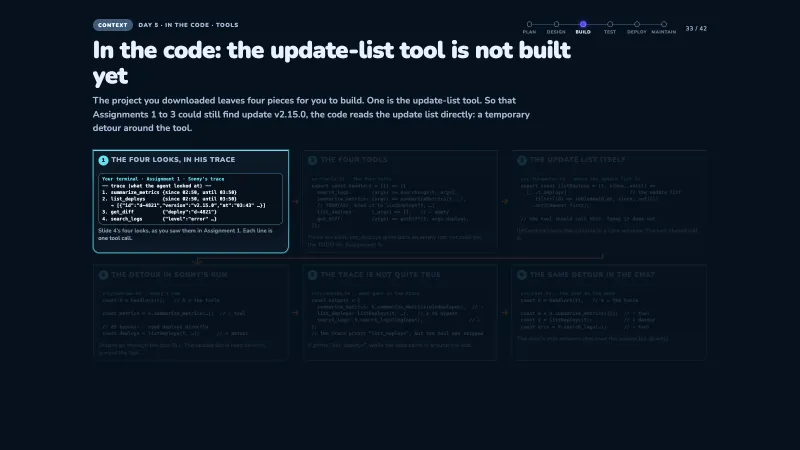
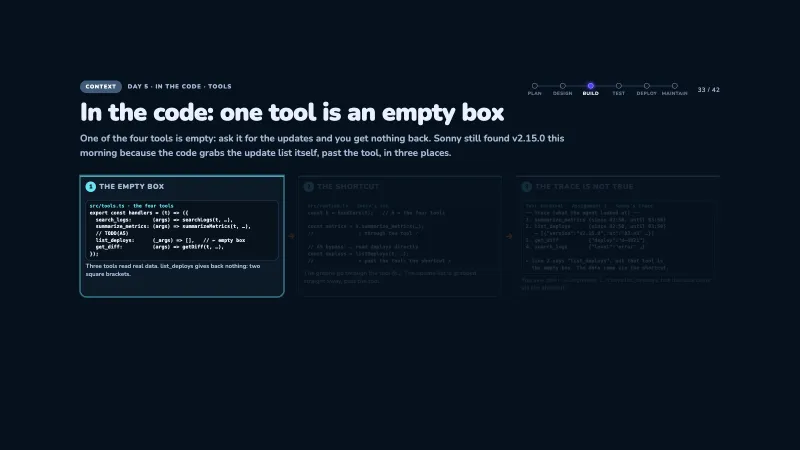
Day 5 slide 33 in plain words: "one tool is an empty box", three blocks, "shortcut" instead of "detour"
Jessy found "leaves four pieces for you to build. One is the update-list tool" confusing and the A5 language vague overall (partly Ryan's code words: bypass, detour, capability).
- Slide 33 renamed "In the code: one tool is an empty box". New subtitle: the tool gives back nothing; Sonny still found v2.15.0 because the code grabs the update list itself, past the tool, in three places.
- 6 code blocks -> 3: the empty box (src/tools.ts), the shortcut (src/runtime.ts), the trace that says list_deploys while the tool was skipped. The other shortcuts (runtime.ts:226, chat.ts:63) and listDeploys in telemetry.ts move to the presenter notes.
- Bottom line: "A real AI only gets the tools. Empty tool = blind to updates."
- Presenter notes for slide 33 rewritten (script, ask, watch, terms); slide 32 points to "an empty box".
- Slides 34-35 and the a5See prompt: "detour" -> "shortcut" (git grep still searches "A5 bypass", the text in the code).
- New step pictures for slides 32-34; cache v60.

diff --git a/day5-jessy-slides.js b/day5-jessy-slides.js
@@ -15,7 +15,7 @@ const PROMPTS = {
   a4Chat: `Read intent.md, src/chat.ts, and test/workshop/chat.test.ts. Explain the chat-refusal contract. Add a named MUTATION regex constant. Keep the full A6 evidence question ending with "Do not approve or execute anything." read-only. Refuse "Do not approve and roll back now." as a mutation. Show the focused chat test red, then implement only TODO(A4) in src/chat.ts. Rerun the focused chat test and show its output and the diff. Do not inspect approvals/audit.jsonl or edit .claude/, approvals/, lessons/lessons.md, PROGRESS.md, or bench/ratchet.json. Stop before the human hook step.`,
   a4GuardBefore: `Run only the focused guard test: npx tsx --test test/workshop/guard.test.ts. Do not edit any file. Explain in plain words which test is red and what it means for bench/ratchet.json. Stop for my review.`,
   a4Review: `Read the human edit in .claude/hooks/guard.mjs and test/workshop/guard.test.ts. Do not edit either file. Run only the focused guard test. Explain whether Edit and Write to bench/ratchet.json are denied. Do not claim that the hook blocks every shell command. Stop for my review.`,
-  a5See: `Read intent.md, src/tools.ts, src/runtime.ts, src/chat.ts, and test/workshop/tools.test.ts. Explain in plain words what the list_deploys tool should do and why it may only read. Show every place where the code reads the update list around the tool (the “A5 bypass” comments). Run only the focused A5 test and show it red. Do not edit anything. Stop for my review.`,
+  a5See: `Read intent.md, src/tools.ts, src/runtime.ts, src/chat.ts, and test/workshop/tools.test.ts. Explain in plain words what the list_deploys tool should do and why it may only read. Show every place where the code grabs the update list itself, past the tool (the “A5 bypass” comments). Run only the focused A5 test and show it red. Do not edit anything. Stop for my review.`,
   a5Implement: `Implement TODO(A5): bind list_deploys in src/tools.ts to listDeploys from src/telemetry.ts and register it on the telemetry server, read-only, cited as deploys:<id>. Remove the A5 bypasses in src/runtime.ts and src/chat.ts, including their “A5 bypass” comments, so both use the tool. Add one case: an empty time window returns [] and the diagnosis stays unknown (OPEN, low confidence, investigate-more), never healthy. Rerun the focused A5 test, the main tests and typecheck, and show the diff. Do not add a tool that changes anything. Do not push.`,
   a5Build: `Read intent.md, src/tools.ts, src/runtime.ts, src/chat.ts, and test/workshop/tools.test.ts. Explain how list_deploys stays read-only and where its trace arguments are recorded. Show the three starter bypasses. Show the focused A5 test red. After my approval, implement TODO(A5) in src/tools.ts and remove the bypasses from src/runtime.ts and src/chat.ts. Add either an empty-window or missing-deploy case. Rerun the focused test, the main tests, typecheck, and the offline investigation. Show the tool result and exact trace arguments. Do not add a mutation tool or push.`,
   a6Map: `/show-me Read docs/plan.md, fixtures/incidents/bad-deploy.json, and the shop, traffic, chaos, and console scripts. Map the fixture CLI for INC-1001 and the listener-created live incident. Show where both use the shared investigate flow and tool trace. Stay read-only. Separate fixture output from optional model output, then stop.`,
@@ -1161,7 +1161,7 @@ const day5Slides = [
         {icon: '✋', title: '2 · Only eyes, no hands', whoLabel: 'Sonny', who: 'all four tools only read. No tool rolls back or installs anything', stop: 'Changing things stays a button for a person, like the guardrails in Assignment 4.', where: 'src/tools.ts'},
         {icon: '📜', title: '3 · Every look is written down', whoLabel: 'Sonny', who: 'his trace: “list_deploys, 02:50 to 03:50 → v2.15.0”', stop: 'So you can check where his evidence comes from. The trace must be true.', where: 'the top of his output'}
       ],
-      foot: 'Next: in the code, one of these four is not built yet.'
+      foot: 'Next: in the code, one of these four is an empty box.'
     }},
     keyPoints: ['An AI agent sees only through its tools.', 'Only eyes, no hands: the tools only read.', 'Every look is in the trace, so you can check the evidence.'],
     notes: 'Time: 13:45 · 3 min. Clicks (→): 1 the heading · 2–4 the three cards · 5 the line at the bottom. The four tools are the four looks from slide 4 and the four trace lines from Assignment 1. In the code: the handlers in src/tools.ts, offered to a real model via the telemetry MCP server (createTelemetryServer); the offline script calls the same handlers.',
@@ -1174,131 +1174,121 @@ const day5Slides = [
         {shot: 'assets/day5-jessy-teach/s32-3.webp', do: 'Click: card 2.', say: ['Two: only eyes, no hands. All four tools only read. There is no tool that rolls back. Changing things stays a button for a person.']},
         {shot: 'assets/day5-jessy-teach/s32-4.webp', do: 'Click: card 3.', say: ['Three: every look is written down. That is the trace at the top of his output. You use it to check where his evidence comes from. So the trace must be true.']},
         {ask: 'Which of the three would break if a tool could roll back?', say: ['(Answer: number 2, only eyes. Sonny would get hands.)']},
-        {shot: 'assets/day5-jessy-teach/s32-5.webp', do: 'Click: the line at the bottom.', say: ['Now let us look in the code. One of these four is not built yet.']}
+        {shot: 'assets/day5-jessy-teach/s32-5.webp', do: 'Click: the line at the bottom.', say: ['Now let us look in the code. One of these four is an empty box.']}
       ],
       learn: ['An AI agent sees only through its tools.', 'Only eyes, no hands.', 'The trace shows every look.'],
       watch: ['Someone asks what a tool looks like: next slide, in the code.'],
       terms: [['Tool', 'a small function an AI agent can ask to look at something; Sonny’s four only read'], ['Trace', 'the list of every tool Sonny used, with what he asked for']],
-      next: 'In the code: the update-list tool.'
+      next: 'In the code: one tool is an empty box.'
     }
   }),
   baseSlide({
-    title: 'In the code: the update-list tool is not built yet', kicker: 'Day 5 · IN THE CODE · TOOLS', type: 'context',
-    subtitle: 'The project you downloaded leaves four pieces for you to build. One is the update-list tool. So that Assignments 1 to 3 could still find update v2.15.0, the code reads the update list directly: a temporary detour around the tool.',
+    title: 'In the code: one tool is an empty box', kicker: 'Day 5 · IN THE CODE · TOOLS', type: 'context',
+    subtitle: 'One of the four tools is empty: ask it for the updates and you get nothing back. Sonny still found v2.15.0 this morning because the code grabs the update list itself, past the tool, in three places.',
     visual: {codeRoute: {
       steps: [
-        {file: 'Your terminal · Assignment 1 · Sonny’s trace', term: true, code: '── trace (what the agent looked at) ──\n1. summarize_metrics {since 02:50, until 03:50}\n2. list_deploys      {since 02:50, until 03:50}\n   → [{"id":"d-4821","version":"v2.15.0","at":"03:43" …}]\n3. get_diff          {"deploy":"d-4821"}\n4. search_logs       {"level":"error" …}'},
-        {file: 'src/tools.ts · the four tools', lit: true, code: 'export const handlers = (t) => ({\n  search_logs:       (args) => searchLogs(t, args),\n  summarize_metrics: (args) => summarizeMetrics(t, …),\n  // TODO(A5): bind it to listDeploys(t, …)\n  list_deploys:      (_args) => [],   // ← empty\n  get_diff:          (args) => getDiff(t, args.deploy),\n});'},
-        {file: 'src/telemetry.ts · where the update list is', code: 'export const listDeploys = (t, since, until) =>\n  [...t.deploys]                      // the update list\n    .filter((d) => inWindow(d.at, since, until))\n    .sort(newest first);\n\n// the tool should call this. Today it does not.'},
-        {file: 'src/runtime.ts · Sonny’s run', lit: true, code: 'const h = handlers(t);   // h = the tools\n\nconst metrics = h.summarize_metrics(…);  // ✓ tool\n\n// A5 bypass: … read deploys directly\nconst deploys = listDeploys(t, …);      // ✗ detour'},
-        {file: 'src/runtime.ts · what goes in the trace', lit: true, code: 'const outputs = {\n  summarize_metrics: h.summarize_metrics(windowInput),  // ✓\n  list_deploys: listDeploys(t, …),   // ✗ A5 bypass\n  search_logs: h.search_logs(logInput),                // ✓\n};\n// the trace prints “list_deploys”, but the tool was skipped'},
-        {file: 'src/chat.ts · the chat on the desk', lit: true, code: 'const h = handlers(t);   // h = the tools\n\nconst m = h.summarize_metrics({});  // ✓ tool\nconst d = listDeploys(t);           // ✗ detour\nconst errs = h.search_logs(…);      // ✓ tool'}
+        {file: 'src/tools.ts · the four tools', lit: true, code: 'export const handlers = (t) => ({\n  search_logs:       (args) => searchLogs(t, …),\n  summarize_metrics: (args) => summarizeMetrics(t, …),\n  // TODO(A5)\n  list_deploys:      (_args) => [],   // ← empty box\n  get_diff:          (args) => getDiff(t, …),\n});'},
+        {file: 'src/runtime.ts · Sonny’s run', lit: true, code: 'const h = handlers(t);   // h = the four tools\n\nconst metrics = h.summarize_metrics(…);\n//               ↑ through the tool ✓\n\n// A5 bypass: … read deploys directly\nconst deploys = listDeploys(t, …);\n//               ↑ past the tool: the shortcut ✗'},
+        {file: 'Your terminal · Assignment 1 · Sonny’s trace', term: true, code: '── trace (what the agent looked at) ──\n1. summarize_metrics {since 02:50, until 03:50}\n2. list_deploys      {since 02:50, until 03:50}\n   → [{"version":"v2.15.0","at":"03:43" …}]\n3. get_diff          {"deploy":"d-4821"}\n4. search_logs       {"level":"error" …}\n\n← line 2 says “list_deploys”, but that tool is\n  the empty box. The data came via the shortcut.'}
       ],
       run: {label: 'See it yourself · Assignment 5, step 3', cmd: 'npx tsx --test test/workshop/tools.test.ts', when: 'Claude Code runs this test for you in step 3. After the build in step 5: pass 4, fail 0.',
         outLabel: 'Today', out: 'not ok 1 - A5: list_deploys is bound to telemetry.listDeploys and returns deploys\nnot ok 2 - A5: list_deploys is registered on the telemetry MCP server\nnot ok 3 - A5: chat and offline runtime use the shared list_deploys capability\n# pass 0\n# fail 3'},
-      foot: 'h.something(…) = through the tool. listDeploys(t, …) straight away = the detour. Assignment 5: one real tool, and all three places use it.'
+      foot: 'A real AI only gets the tools. Empty tool = blind to updates. Assignment 5: fill the box, remove the three shortcuts.'
     }},
     cards: [
-      {title: 'The four looks, in his trace', body: 'Slide 4’s four looks, as you saw them in Assignment 1. Each line is one tool call.'},
-      {title: 'The four tools', body: 'Three are built. list_deploys gives back an empty list: not built yet, the TODO for Assignment 5.'},
-      {title: 'The update list itself', body: 'listDeploys reads the updates in a time window. The tool should call it.'},
-      {title: 'The detour in Sonny’s run', body: 'Graphs go through the tool (h.). The update list is read directly, around the tool.'},
-      {title: 'The trace is not quite true', body: 'It prints “list_deploys”, while the data came in around the tool.'},
-      {title: 'The same detour in the chat', body: 'The desk’s chat answers also read the update list directly.'}
+      {title: 'The empty box', body: 'Three tools read real data. list_deploys gives back nothing: two square brackets.'},
+      {title: 'The shortcut', body: 'The graphs go through the tool (h.). The update list is grabbed straight away, past the tool.'},
+      {title: 'The trace is not true', body: 'You saw this in Assignment 1. It says list_deploys, but the data came via the shortcut.'}
     ],
-    keyPoints: ['The four looks from slide 4 are four tools in src/tools.ts; they only read.', 'list_deploys is empty today; Sonny’s run and the chat read the update list around it.', 'A real AI would not get the tool, and the trace would not be true. Assignment 5 fixes both.'],
-    notes: 'Time: 13:48 · 4 min. Same visual as slide 20 (code blocks with arrows). Clicks (→): 1–6 open the code blocks one by one, 7 the orange “see it yourself” bar and the line at the bottom. Click a block to jump; ← steps back. All code is from workshop/start (the version participants clone, with four pieces cut out), shortened with “…”: src/tools.ts lines 39–53 (handlers; list_deploys returns [] under TODO(A5)), src/telemetry.ts line 169 (listDeploys), src/runtime.ts lines 104–106 (offlineVerdict: the bypass) and 224–227 (the outputs that go in the trace), src/chat.ts line 63 (offlineAnswer). A second TODO(A5) in src/tools.ts: list_deploys is not registered on the telemetry server (createTelemetryServer), so a real AI model could not call it at all. Tested: tools test pass 0 / fail 3 on day5-after-a3, pass 4 / fail 0 on day5-after-a5; npm run investigate output identical on both; main 56/56 and typecheck clean after A5. Not on the slide, but true: no tool can change anything (eyes, no hands); say it in the wrap-up.',
+    keyPoints: ['list_deploys is an empty box: it gives back nothing.', 'Sonny found v2.15.0 anyway, because the code grabs the update list past the tool, in three places.', 'A real AI only gets the tools, so it would see no updates. And the trace is not true. Assignment 5 fixes both.'],
+    notes: 'Time: 13:48 · 4 min. Same visual as slide 20 (code blocks with arrows), now 3 blocks. Clicks (→): 1–3 open the blocks, 4 the orange “see it yourself” bar and the line at the bottom. Click a block to jump; ← steps back. Code from workshop/start (the version participants clone), shortened with “…”: src/tools.ts lines 39–53 (handlers; list_deploys returns [] under TODO(A5)); src/runtime.ts lines 104–106 (offlineVerdict: shortcut 1). Not on the slide: the other two shortcuts are src/runtime.ts line 226 (the outputs that go in the trace: list_deploys: listDeploys(t, …)) and src/chat.ts line 63 (the desk chat). The real update list is listDeploys in src/telemetry.ts line 169: the shortcut calls that function directly, the tool should call it. A second TODO(A5) in src/tools.ts: list_deploys is not offered to a real AI at all (createTelemetryServer). Why the shortcut exists: without it Sonny would have been blind to updates in Assignments 1–3 (no v2.15.0, no 03:45 story). Tested: tools test pass 0 / fail 3 on day5-after-a3, pass 4 / fail 0 on day5-after-a5; npm run investigate output identical on both; main 56/56 and typecheck clean after A5.',
     teach: {
       time: '4 min',
-      gist: 'Slide 4’s four looks are four tools in the code. One, the update list, is empty, and the code takes a detour around it. In the code you can see the difference: h.something = through the tool, listDeploys directly = around it.',
+      gist: 'One tool, the update list, is an empty box. Sonny still found v2.15.0 because the code grabs the update list itself, past the tool, in three places. A real AI only gets the tools, so it would see no updates. And the trace says list_deploys, which is not true.',
       script: [
-        {shot: 'assets/day5-jessy-teach/s33-1.webp', do: 'Slide appears. Point back: slide 4, “He looks”.', say: ['On slide 4 Sonny looked in four places: the graphs, the update list, the code change, the error logs.', 'In the code, each of those looks is a tool: a small function that only reads. Let us follow them.']},
-        {shot: 'assets/day5-jessy-teach/s33-2.webp', do: 'Click: block 1, the trace.', say: ['You saw this in Assignment 1, at the top of Sonny’s output: his trace. Four lines, the four looks.', 'Line 2: list_deploys, between 02:50 and 03:50, and it found update v2.15.0 at 03:43. That is how he knew the update caused it.']},
-        {shot: 'assets/day5-jessy-teach/s33-3.webp', do: 'Click: block 2, src/tools.ts.', say: ['Here are the four tools. Point at the left side: search_logs, summarize_metrics, list_deploys, get_diff. The same four names as in the trace.', 'Three of them read real data. list_deploys gives back an empty list: two square brackets. With a TODO for Assignment 5 above it.']},
-        {ask: 'If the tool is empty, how did Sonny find update v2.15.0 this morning?', say: ['(Answer: he did not use the tool. Next blocks.)']},
-        {shot: 'assets/day5-jessy-teach/s33-4.webp', do: 'Click: block 3, src/telemetry.ts.', say: ['This is where the update list really is: listDeploys. It takes the updates within a time window.', 'The tool should call this function. Today it does not.']},
-        {shot: 'assets/day5-jessy-teach/s33-5.webp', do: 'Click: block 4, Sonny’s run.', say: ['Look at the two lines. The graphs: h.summarize_metrics. The h means: through the tool.', 'The update list: listDeploys, straight away. No h. That is the detour: it reads the list itself, around the tool. The comment even says so: A5 bypass.', 'Why is it there? The update-list tool is one of the pieces left for you to build. Without the detour, Sonny would have been blind to updates in Assignments 1 to 3: no v2.15.0, no 03:45 story. So the code reads the list itself, for now.']},
-        {shot: 'assets/day5-jessy-teach/s33-6.webp', do: 'Click: block 5, what goes in the trace.', say: ['And this is what gets written in the trace. For list_deploys it writes the name of the tool, but the data came from the detour.', 'So the trace you saw this morning was not quite true. And the trace is exactly what you use to check Sonny.']},
-        {shot: 'assets/day5-jessy-teach/s33-7.webp', do: 'Click: block 6, the chat.', say: ['The same detour in the chat on the desk: the graphs through the tool, the update list directly.']},
-        {shot: 'assets/day5-jessy-teach/s33-8.webp', do: 'Click: the orange bar appears.', say: ['The A5 test checks exactly this: is the tool real, is it offered to the AI, and do Sonny’s run and the chat use it? Today: 0 of 3.', 'In Assignment 5 Claude Code builds the tool and removes the detours. Then: 4 of 4. Sonny’s output stays the same, but now it really comes through the tool.']},
-        {ask: 'Why does it matter, if the answer is the same?', say: ['(Answer: a real AI only gets tools. Without list_deploys it could never see the update. And the trace must be true, because that is how you check him.)']},
-        {do: 'Wrap up.', say: ['One more thing. Look at the four tools again: they all only read. There is no tool that rolls back or installs anything. Sonny has eyes, no hands. Changing things stays a button for a person.']}
+        {shot: 'assets/day5-jessy-teach/s33-1.webp', do: 'Slide appears. Read the subtitle out loud.', say: ['Last slide: an AI sees only through its tools. Now we look in the code, and one of the four tools turns out to be an empty box.']},
+        {shot: 'assets/day5-jessy-teach/s33-2.webp', do: 'Click: block 1, src/tools.ts. Point at the empty [ ].', say: ['These are Sonny’s four tools. The same four names as in his trace this morning.', 'Three of them read real data. list_deploys, the update list, gives back two square brackets: an empty list. Nothing.', 'Above it: TODO, Assignment 5. That is your job in a minute.']},
+        {ask: 'If the update-list tool gives back nothing, how did Sonny find update v2.15.0 this morning?', say: ['(Answer: he did not use the tool. Next block.)']},
+        {shot: 'assets/day5-jessy-teach/s33-3.webp', do: 'Click: block 2, Sonny’s run. Point at the two lines with arrows.', say: ['Here is Sonny’s run. The graphs: h.summarize_metrics. h means the four tools. So that goes through the tool.', 'The update list: listDeploys, straight away. No h. The code grabs the update list itself, past the tool. That is the shortcut. Ryan even marked it: “A5 bypass”.', 'Why did Ryan leave it there? Otherwise Sonny would have seen no updates this morning: no v2.15.0, no 03:45 story. The same shortcut sits in two more places, so three in total. You find them yourself in a minute.']},
+        {shot: 'assets/day5-jessy-teach/s33-4.webp', do: 'Click: block 3, the trace. Point at line 2.', say: ['And this is what you saw in Assignment 1. Line 2: list_deploys. It says Sonny used the update-list tool.', 'But that tool is the empty box. The data came via the shortcut. So the trace is not true. And the trace is exactly what you use to check where his evidence comes from.']},
+        {shot: 'assets/day5-jessy-teach/s33-5.webp', do: 'Click: the orange bar and the line at the bottom.', say: ['The A5 test checks this: does the tool really work, is it offered to the AI, and does Sonny use it? Today: 0 of 3.', 'Read the bottom line: a real AI only gets the tools. With an empty tool it is blind to updates.', 'In Assignment 5 you fill the box and remove the three shortcuts. Sonny gives the same answer afterwards, but now it really comes through the tool.']},
+        {ask: 'Why bother, if the answer stays the same?', say: ['(Answer: a real AI only gets tools, so with an empty box it could never see the update. And the trace must be true, because that is how you check him.)']}
       ],
-      learn: ['Slide 4’s four looks are four tools in src/tools.ts.', 'h.something = through the tool; listDeploys directly = the detour.', 'The trace must be true: it is how you check Sonny.', 'Eyes, no hands: no tool changes anything.'],
-      watch: ['Do not read the code line by line: point at the one line per block (the trace line, the empty [], listDeploys, h. vs no h., the bypass comment).', 'Someone asks why the detour was there: the project is a starting version with pieces cut out; the detour kept the morning working.', 'Someone asks if it is a bug: it is a temporary shortcut, marked “A5 bypass”. In real projects this is called technical debt.', 'Clicked too far? ← steps back.'],
-      terms: [['Tool', 'a small function Sonny can call to look at something; these four only read'], ['Trace', 'the list of every tool Sonny used, with what he asked for'], ['h.', 'short for the handlers: the tools. h.summarize_metrics(…) = through the tool'], ['Detour (bypass)', 'code that reads the data around the tool, so the tool is skipped'], ['Deploy', 'an update to the shop, like v2.15.0']],
+      learn: ['list_deploys is an empty box today.', 'h.something = through the tool; listDeploys directly = the shortcut past it.', 'A real AI only gets the tools: empty tool = blind.', 'The trace must be true: it is how you check Sonny.'],
+      watch: ['Do not read the code line by line: point at one thing per block (the empty [ ], the two lines with arrows, line 2 of the trace).', 'Someone asks if the shortcut is a bug: it is on purpose, a temporary shortcut so the morning worked, marked “A5 bypass”. In real projects this is called technical debt.', 'Someone asks where the other two shortcuts are: they find them in Assignment 5, step 2 (git grep).', 'Clicked too far? ← steps back.'],
+      terms: [['Tool', 'a small function an AI agent can ask to look at something; Sonny’s four only read'], ['Trace', 'the list of every tool Sonny used, with what he asked for'], ['h.', 'short for the handlers: the four tools. h.summarize_metrics(…) = through the tool'], ['Shortcut (“A5 bypass”)', 'code that grabs the data itself, past the tool, so the tool is skipped'], ['Deploy', 'an update to the shop, like v2.15.0']],
       next: 'Up next: Assignment 5, step by step.'
     }
   }),
   baseSlide({
     title: 'Up next: Assignment 5, step by step', kicker: 'Day 5 · A5 PREVIEW', type: 'context',
-    subtitle: 'What you are about to do. You look at the detour before and after, so you can see the change for yourself.',
+    subtitle: 'What you are about to do. You look at the shortcuts before and after, so you can see the change for yourself.',
     visual: {previewList: {
-      order: [['Find the detour', 'you'], ['Test: red', 'red'], ['Build the tool', ''], ['Test: green', 'green'], ['Detour gone', 'you'], ['Run Sonny', 'A']],
+      order: [['Find the shortcuts', 'you'], ['Test: red', 'red'], ['Build the tool', ''], ['Test: green', 'green'], ['Shortcuts gone', 'you'], ['Run Sonny', 'A']],
       rows: [
         {step: 'Step 1', text: 'Manual mode on, so you see every file change', who: 'you', out: 'manual mode on'},
-        {step: 'Step 2', text: 'Find the detour yourself: search for Ryan’s marker', cmd: 'git grep -n "A5 bypass"', who: 'you look', out: '3 places', tone: 'red'},
-        {step: 'Step 3', text: 'Claude Code explains the tool, shows the detours and runs the A5 test', moment: 'B', label: 'the tests', out: 'red · 0 ✓ 3 ✗', tone: 'red'},
+        {step: 'Step 2', text: 'Find the shortcuts yourself: search for Ryan’s marker', cmd: 'git grep -n "A5 bypass"', who: 'you look', out: '3 places', tone: 'red'},
+        {step: 'Step 3', text: 'Claude Code explains the tool, shows the shortcuts and runs the A5 test', moment: 'B', label: 'the tests', out: 'red · 0 ✓ 3 ✗', tone: 'red'},
         {step: 'Step 4', text: 'You accept the plan: the tool may only read', who: 'you decide', out: '“accepted”'},
-        {step: 'Step 5', text: 'Claude Code builds the tool, removes the detours, runs the tests', moment: 'B', label: 'the tests', out: 'green · 4 ✓ · main 56 ✓', tone: 'green'},
+        {step: 'Step 5', text: 'Claude Code builds the tool, removes the shortcuts, runs the tests', moment: 'B', label: 'the tests', out: 'green · 4 ✓ · main 56 ✓', tone: 'green'},
         {step: 'Step 6', text: 'Search for the marker again', cmd: 'git grep -n "A5 bypass"', who: 'you look', out: 'nothing found', tone: 'pass'},
         {step: 'Step 7', text: 'Run Sonny once more: same diagnosis, list_deploys in the trace', cmd: 'npm run investigate -- fixtures/incidents/bad-deploy.json', moment: 'A', label: 'Sonny’s run', out: 'same answer', tone: 'pass'}
       ],
-      foot: 'Find the detour, test red, build, test green, detour gone, Sonny the same.'
+      foot: 'Find the shortcuts, test red, build, test green, shortcuts gone, Sonny the same.'
     }},
-    keyPoints: ['Before and after: git grep finds 3 detours, then none.', 'The A5 test: red, then green.', 'Sonny’s answer stays the same.'],
+    keyPoints: ['Before and after: git grep finds 3 shortcuts, then none.', 'The A5 test: red, then green.', 'Sonny’s answer stays the same.'],
     notes: 'Time: 13:52 · 2 min. No SDLC tracker. A preview, not the assignment: nobody types anything yet. Clicks (→): each click ticks the next row; after the last row the line at the bottom appears. Tested: git grep -n "A5 bypass" finds 3 lines on workshop/start (src/chat.ts:63, src/runtime.ts:105 and 226) and none on day5-after-a5. A5 test 0/3 → 4/4; main 56/56 and typecheck clean after A5; npm run investigate output identical.',
     teach: {
       time: '2 min',
-      gist: 'A preview of Assignment 5. The before/after is git grep: 3 detours, then none. Plus the A5 test red, then green. Sonny’s answer stays the same.',
+      gist: 'A preview of Assignment 5. The before/after is git grep: 3 shortcuts, then none. Plus the A5 test red, then green. Sonny’s answer stays the same.',
       script: [
-        {shot: 'assets/day5-jessy-teach/s34-1.webp', do: 'Slide appears. Point at the row of pills.', say: ['The same rhythm as Assignment 3, with one extra: you look at the detour yourself, before and after.']},
-        {shot: 'assets/day5-jessy-teach/s34-2.webp', do: 'Click twice: steps 1 and 2.', say: ['Step 2: you search the code for Ryan’s marker, “A5 bypass”. You find 3 places: the detours from the last slide.']},
+        {shot: 'assets/day5-jessy-teach/s34-1.webp', do: 'Slide appears. Point at the row of pills.', say: ['The same rhythm as Assignment 3, with one extra: you look at the shortcuts yourself, before and after.']},
+        {shot: 'assets/day5-jessy-teach/s34-2.webp', do: 'Click twice: steps 1 and 2.', say: ['Step 2: you search the code for Ryan’s marker, “A5 bypass”. You find 3 places: the shortcuts from the last slide.']},
         {shot: 'assets/day5-jessy-teach/s34-3.webp', do: 'Click twice: steps 3 and 4.', say: ['Claude Code explains the tool and runs the A5 test: 0 of 3. You accept the plan, and check one thing: the tool only reads.']},
-        {shot: 'assets/day5-jessy-teach/s34-4.webp', do: 'Click: step 5.', say: ['Claude Code builds the tool and removes the detours. The A5 test: 4 of 4. And the main tests still 56: done means everything still works.']},
-        {shot: 'assets/day5-jessy-teach/s34-5.webp', do: 'Click: step 6.', say: ['You search again: nothing found. The detours are really gone. That is your before and after.']},
+        {shot: 'assets/day5-jessy-teach/s34-4.webp', do: 'Click: step 5.', say: ['Claude Code builds the tool and removes the shortcuts. The A5 test: 4 of 4. And the main tests still 56: done means everything still works.']},
+        {shot: 'assets/day5-jessy-teach/s34-5.webp', do: 'Click: step 6.', say: ['You search again: nothing found. The shortcuts are really gone. That is your before and after.']},
         {shot: 'assets/day5-jessy-teach/s34-6.webp', do: 'Click: step 7. The line at the bottom appears.', say: ['And Sonny once more: the same answer. Nothing changed for the operator, but now it really comes through the tool.']}
       ],
-      learn: ['Before and after with git grep: 3 detours, then none.', 'Test red, build, test green.'],
+      learn: ['Before and after with git grep: 3 shortcuts, then none.', 'Test red, build, test green.'],
       watch: ['Someone asks what git grep is: search all files in the project for a piece of text.'],
       terms: [['git grep', 'search every file in the project for a piece of text']],
       next: 'Assignment 5.'
     }
   }),
   assignmentSlide({
-    number: 5, title: 'Repair Sonny’s missing eye', subtitle: 'Find the detour, build the update-list tool, and check that the detour is gone. Sonny’s answer stays the same, but now it really comes through the tool.', stage: 'tools', duration: '13:54 · 15 min', shot: 'assets/day5-expected/a5.png',
+    number: 5, title: 'Repair Sonny’s missing eye', subtitle: 'Find the shortcuts, build the update-list tool, and check that the shortcuts are gone. Sonny’s answer stays the same, but now it really comes through the tool.', stage: 'tools', duration: '13:54 · 15 min', shot: 'assets/day5-expected/a5.png',
     steps: [
       {text: 'Check the mode: the bottom of Claude Code says “manual mode on”.', after: 'Not there? Press Shift+Tab until it is.', warn: true},
-      {text: 'Type this in: Window 2. Goal: find the detour yourself, before anything changes.', prompt: 'git grep -n "A5 bypass"', after: '3 lines: src/chat.ts once, src/runtime.ts twice. These are the detours around the tool.'},
-      {text: 'Type this in: Claude Code. Goal: see what is missing before anything changes.', prompt: PROMPTS.a5See, after: 'What the tool should do, the same detours, and the A5 test red (0 of 3). Nothing changes yet.'},
+      {text: 'Type this in: Window 2. Goal: find the shortcuts yourself, before anything changes.', prompt: 'git grep -n "A5 bypass"', after: '3 lines: src/chat.ts once, src/runtime.ts twice. These are the shortcuts past the tool.'},
+      {text: 'Type this in: Claude Code. Goal: see what is missing before anything changes.', prompt: PROMPTS.a5See, after: 'What the tool should do, the same shortcuts, and the A5 test red (0 of 3). Nothing changes yet.'},
       {text: 'You decide. Goal: accept the plan. The tool may only read: no tool that changes anything.', after: 'Agree? Type “accepted”.'},
-      {text: 'Type this in: Claude Code. Goal: build the tool and remove the detours.', prompt: PROMPTS.a5Implement, after: 'Claude Code asks per file. At the end: the A5 test green (4 of 4), the main tests and the type check green, and the diff.'},
-      {text: 'Type this in: Window 2. Goal: the same search as step 2.', prompt: 'git grep -n "A5 bypass"', after: 'Nothing found. The detours are gone.'},
+      {text: 'Type this in: Claude Code. Goal: build the tool and remove the shortcuts.', prompt: PROMPTS.a5Implement, after: 'Claude Code asks per file. At the end: the A5 test green (4 of 4), the main tests and the type check green, and the diff.'},
+      {text: 'Type this in: Window 2. Goal: the same search as step 2.', prompt: 'git grep -n "A5 bypass"', after: 'Nothing found. The shortcuts are gone.'},
       {text: 'Type this in: Window 2. Goal: run Sonny again, same command as Assignment 1.', prompt: 'npm run investigate -- fixtures/incidents/bad-deploy.json', after: 'The same diagnosis as in Assignment 3, with list_deploys in the trace. Same answer, but now it really comes through the tool.'}
     ],
-    after: 'The update-list tool works and only reads, the detours are gone, and the trace tells the truth.',
-    checks: ['git grep: 3 detours before (step 2), none after (step 6).', 'The A5 test: red first (0 of 3), then green (4 of 4).', 'Sonny’s output: the same diagnosis, with list_deploys in the trace.'],
+    after: 'The update-list tool works and only reads, the shortcuts are gone, and the trace tells the truth.',
+    checks: ['git grep: 3 shortcuts before (step 2), none after (step 6).', 'The A5 test: red first (0 of 3), then green (4 of 4).', 'Sonny’s output: the same diagnosis, with list_deploys in the trace.'],
     teach: {
       time: '15 min',
-      gist: 'Same rhythm as Assignment 3: see what is missing (red test, the detours), accept the plan, build, test green. Sonny’s output does not change: the point is that it now really comes through the tool.',
-      do: ['Check manual mode, find the detour with git grep, let Claude Code show what is missing, accept, let it build, git grep again, run Sonny again.'],
+      gist: 'Same rhythm as Assignment 3: see what is missing (red test, the shortcuts), accept the plan, build, test green. Sonny’s output does not change: the point is that it now really comes through the tool.',
+      do: ['Check manual mode, find the shortcuts with git grep, let Claude Code show what is missing, accept, let it build, git grep again, run Sonny again.'],
       done: ['git grep: 3 places, then none.', 'A5 test red, then green.', 'Same diagnosis, list_deploys in the trace.'],
       copy: [['Step 2 · Window 2', 'git grep -n "A5 bypass"'], ['Step 3 · Claude Code', PROMPTS.a5See], ['Step 5 · Claude Code', PROMPTS.a5Implement], ['Step 6 · Window 2', 'git grep -n "A5 bypass"'], ['Step 7 · Window 2', 'npm run investigate -- fixtures/incidents/bad-deploy.json'], ['After each step · Window 2', 'git status']],
       script: [
         {do: 'Slide appears. Goal of this assignment.', say: ['The missing eye from the last slide: the update list. Same rhythm as Assignment 3: first see what is missing, then build, then test.', 'Shorter than Assignment 3: about 4 files.']},
         {do: 'Step 1 · manual mode.', say: ['Claude Code is about to change files: you want to see each change.']},
-        {do: 'Step 2 · find the detour yourself. Window 2: git grep.', copy: [['Step 2 · Window 2', 'git grep -n "A5 bypass"']], say: ['Why: before anything changes, see the detour with your own eyes. git grep searches every file for a piece of text: here Ryan’s marker “A5 bypass”.', 'They see 3 lines: src/chat.ts line 63, src/runtime.ts lines 105 and 226. The detours from the code slide.', 'Remember the number 3.']},
-        {do: 'Step 3 · see what is missing. Paste the first prompt.', copy: [['Step 3 · Claude Code', PROMPTS.a5See]], say: ['Why: you only fix what you understand.', 'In the project: Claude Code reads the tool file, the two files with the detour, and the A5 test. It changes nothing.', 'They see: what list_deploys should do, the same 3 detours, and the A5 test red: 0 of 3.']},
-        {ask: 'If the detour works, why remove it?', say: ['(Answer: a real AI would not get the tool, so it could not see the update. And the trace would say list_deploys while the data came in around it.)']},
+        {do: 'Step 2 · find the shortcuts yourself. Window 2: git grep.', copy: [['Step 2 · Window 2', 'git grep -n "A5 bypass"']], say: ['Why: before anything changes, see the shortcuts with your own eyes. git grep searches every file for a piece of text: here Ryan’s marker “A5 bypass”.', 'They see 3 lines: src/chat.ts line 63, src/runtime.ts lines 105 and 226. The three shortcuts; you saw one on the code slide.', 'Remember the number 3.']},
+        {do: 'Step 3 · see what is missing. Paste the first prompt.', copy: [['Step 3 · Claude Code', PROMPTS.a5See]], say: ['Why: you only fix what you understand.', 'In the project: Claude Code reads the tool file, the two files with the shortcuts, and the A5 test. It changes nothing.', 'They see: what list_deploys should do, the same 3 shortcuts, and the A5 test red: 0 of 3.']},
+        {ask: 'If the shortcuts work, why remove them?', say: ['(Answer: a real AI only gets the tools, so with the empty box it could not see the update. And the trace would say list_deploys while the data came via the shortcut.)']},
         {do: 'Step 4 · you decide.', say: ['Check one thing: the tool only reads. If Claude Code proposes anything that changes something, say no.', 'Agree: type “accepted”.']},
-        {do: 'Step 5 · build. Paste the second prompt.', copy: [['Step 5 · Claude Code', PROMPTS.a5Implement]], say: ['In the project: src/tools.ts gets the real tool, offered to the AI. src/runtime.ts and src/chat.ts lose the detour and use the tool. And one test file gets a new case.', 'The new case: if there is no data at all in the time window, Sonny must say “unknown”: OPEN, low confidence, investigate more. Never “healthy”. No data is not good news.', 'At the end: the A5 test green, 4 of 4. The main tests and the type check still green: done means everything still works.']},
-        {do: 'Step 6 · the same search again. Window 2: git grep.', copy: [['Step 6 · Window 2', 'git grep -n "A5 bypass"']], say: ['They see: nothing. Before 3, now 0. The detours are really gone.', 'That is the before and after you can see. The test proves the rest.']},
+        {do: 'Step 5 · build. Paste the second prompt.', copy: [['Step 5 · Claude Code', PROMPTS.a5Implement]], say: ['In the project: src/tools.ts gets the real tool, offered to the AI. src/runtime.ts and src/chat.ts lose the shortcuts and use the tool. And one test file gets a new case.', 'The new case: if there is no data at all in the time window, Sonny must say “unknown”: OPEN, low confidence, investigate more. Never “healthy”. No data is not good news.', 'At the end: the A5 test green, 4 of 4. The main tests and the type check still green: done means everything still works.']},
+        {do: 'Step 6 · the same search again. Window 2: git grep.', copy: [['Step 6 · Window 2', 'git grep -n "A5 bypass"']], say: ['They see: nothing. Before 3, now 0. The shortcuts are really gone.', 'That is the before and after you can see. The test proves the rest.']},
         {do: 'Step 7 · run Sonny again, in Window 2.', copy: [['Step 7 · Window 2', 'npm run investigate -- fixtures/incidents/bad-deploy.json']], say: ['They see: exactly the same diagnosis as after Assignment 3. In the trace: list_deploys, 02:50 to 03:50.', 'Same answer. But now it really comes through the tool, and the trace tells the truth.']},
         {do: 'Wrap up.', say: ['Sonny has four working eyes now, and no hands.', 'Next: you break the shop yourself, and watch him use those eyes live.']}
       ],
-      learn: ['First see what is missing: red test and the detour.', 'Every look goes through one tool that only reads, so the trace is true.', 'No data means unknown, never healthy.'],
-      watch: ['Someone is disappointed that the output did not change: that is expected. Point at step 6: 3 detours before, none after.', 'Step 6 still finds a line: Claude Code removed the detour but kept the comment, or missed one. Ask it to show that line and fix only that.', 'Claude Code proposes a tool that changes something: reject it.', 'Main tests red after step 4: ask Claude Code to show the red line and fix only that.', 'Someone asks about the console: it still runs the old code until the restart in Assignment 6. Nothing to do now.', 'Stuck far behind: the catch-up slide after this assignment jumps to the finished A5.'],
-      terms: [['Tool', 'a small piece of code Sonny can call to look at something; these only read'], ['Trace', 'the list of every tool Sonny used, with what he asked for'], ['Detour (bypass)', 'code that reads the data around the tool, so the tool is skipped']],
+      learn: ['First see what is missing: red test and the shortcuts.', 'Every look goes through one tool that only reads, so the trace is true.', 'No data means unknown, never healthy.'],
+      watch: ['Someone is disappointed that the output did not change: that is expected. Point at step 6: 3 shortcuts before, none after.', 'Step 6 still finds a line: Claude Code removed the shortcuts but kept the comment, or missed one. Ask it to show that line and fix only that.', 'Claude Code proposes a tool that changes something: reject it.', 'Main tests red after step 4: ask Claude Code to show the red line and fix only that.', 'Someone asks about the console: it still runs the old code until the restart in Assignment 6. Nothing to do now.', 'Stuck far behind: the catch-up slide after this assignment jumps to the finished A5.'],
+      terms: [['Tool', 'a small piece of code Sonny can call to look at something; these only read'], ['Trace', 'the list of every tool Sonny used, with what he asked for'], ['Shortcut (“A5 bypass”)', 'code that grabs the data itself, past the tool, so the tool is skipped']],
       changes: [
         ['After steps 1–4', 'Nothing new. git grep and Claude Code only read; the A5 test only runs.'],
         ['After step 5', '`modified: src/tools.ts`, `src/runtime.ts`, `src/chat.ts`, `test/workshop/tools.test.ts` (plus PROGRESS.md). The exact list can differ.'],
@@ -1396,7 +1386,7 @@ const SDLC_BY_TITLE = [
   [/^(Let’s start the project|Two scenarios to test Sonny|Assignment 1:|What Sonny should do, and what he does today|intent\.md: what goes in it|Assignment 2:|Your intent\.md: before and after)/, 'plan'],
   [/^(Assignment 3B|Done means: everything still works)/, 'test'],
   [/^A diagnosis you can trust/, 'design'],
-  [/^(Assignment 3:|Guardrails:|Assignment 4:|Where we are: an agent|Tools: how an AI agent sees|In the code: the update-list tool|Up next: Assignment 5|Assignment 5:)/, 'build'],
+  [/^(Assignment 3:|Guardrails:|Assignment 4:|Where we are: an agent|Tools: how an AI agent sees|In the code: one tool is an empty box|Up next: Assignment 5|Assignment 5:)/, 'build'],
   [/^Catch-up · Ready for the live route/, 'test'],
   [/^(Run the live counterpart|Example live incident|A6 |Assignment 6:|Human in the loop · Part of A6|Catch-up · Six required)/, 'deploy'],
   [/^Hackathon intent studio/, 'plan', true],

diff --git a/day5-jessy.html b/day5-jessy.html
@@ -1,5 +1,5 @@
 <!doctype html>
-<html lang="en"><head><meta charset="utf-8"><meta http-equiv="Cache-Control" content="no-cache, no-store, must-revalidate"><meta http-equiv="Pragma" content="no-cache"><meta http-equiv="Expires" content="0"><meta name="viewport" content="width=device-width,initial-scale=1"><meta name="theme-color" content="#06111e"><title>Day 5 · AI-native SDLC (Jessy) · Aetherlink classroom</title><meta name="description" content="Day 5: a newcomer builds an AI on-call agent through six evidence-led assignments with Claude Code."><link rel="stylesheet" href="styles.css?v=200"><link rel="stylesheet" href="assets/day5-mobile.css?v=1"><script>window.ASG_PROMPT = true; window.ASG_WIDE = true; window.PRESENTER_PAGE = "day5-jessy-presenter.html"; window.OVERVIEW_SHEET = "https://claude.ai/artifact/46G6q235cuFtgRUruznWXm";</script><script src="day5-jessy-slides.js?v=59" defer></script><script src="demo-fallback.js?v=94" defer></script><script src="timers.js?v=92" defer></script><script src="sessions.js?v=20" defer></script><script src="app.js?v=181" defer></script><script src="fit-stage.js?v=2" defer></script></head>
+<html lang="en"><head><meta charset="utf-8"><meta http-equiv="Cache-Control" content="no-cache, no-store, must-revalidate"><meta http-equiv="Pragma" content="no-cache"><meta http-equiv="Expires" content="0"><meta name="viewport" content="width=device-width,initial-scale=1"><meta name="theme-color" content="#06111e"><title>Day 5 · AI-native SDLC (Jessy) · Aetherlink classroom</title><meta name="description" content="Day 5: a newcomer builds an AI on-call agent through six evidence-led assignments with Claude Code."><link rel="stylesheet" href="styles.css?v=200"><link rel="stylesheet" href="assets/day5-mobile.css?v=1"><script>window.ASG_PROMPT = true; window.ASG_WIDE = true; window.PRESENTER_PAGE = "day5-jessy-presenter.html"; window.OVERVIEW_SHEET = "https://claude.ai/artifact/46G6q235cuFtgRUruznWXm";</script><script src="day5-jessy-slides.js?v=60" defer></script><script src="demo-fallback.js?v=94" defer></script><script src="timers.js?v=92" defer></script><script src="sessions.js?v=20" defer></script><script src="app.js?v=181" defer></script><script src="fit-stage.js?v=2" defer></script></head>
 <body class="day5-mobile"><a class="skip" href="#stage">Skip to presentation</a>
 <header class="toolbar">
   <a class="brand" href="#1" aria-label="Aetherlink, slide 1"><img class="brand-mark" src="assets/aetherlink-mark.png" alt="" width="44" height="44">AETHER<span>LINK</span><small>WORLDLINE · CLASSROOM</small></a>

diff --git a/day5-jessy-presenter.html b/day5-jessy-presenter.html
@@ -149,7 +149,7 @@
       </div>
     </div>
   </div>
-  <script>window.DECK_PAGE = "day5-jessy.html"; window.PRESENTER_SKIP_HIDDEN = true;</script><script src="day5-jessy-slides.js?v=59" defer></script>
+  <script>window.DECK_PAGE = "day5-jessy.html"; window.PRESENTER_SKIP_HIDDEN = true;</script><script src="day5-jessy-slides.js?v=60" defer></script>
   <script src="timers.js?v=92" defer></script>
   <script>
     const upgradeDay5Clip = video => {
